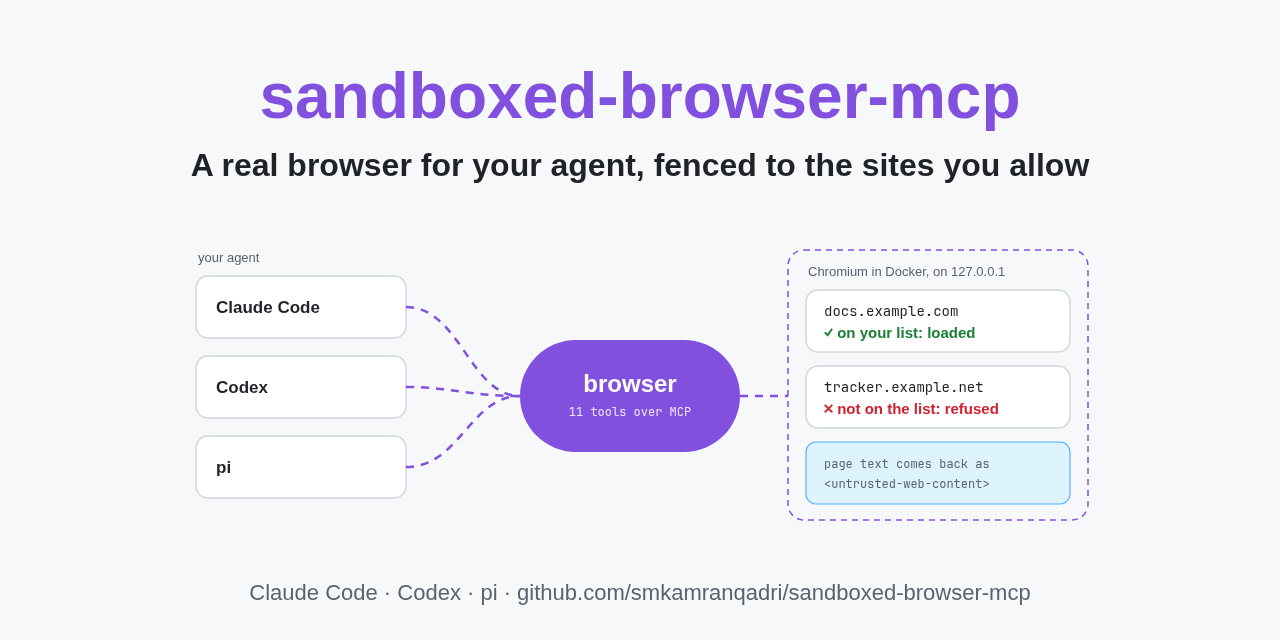
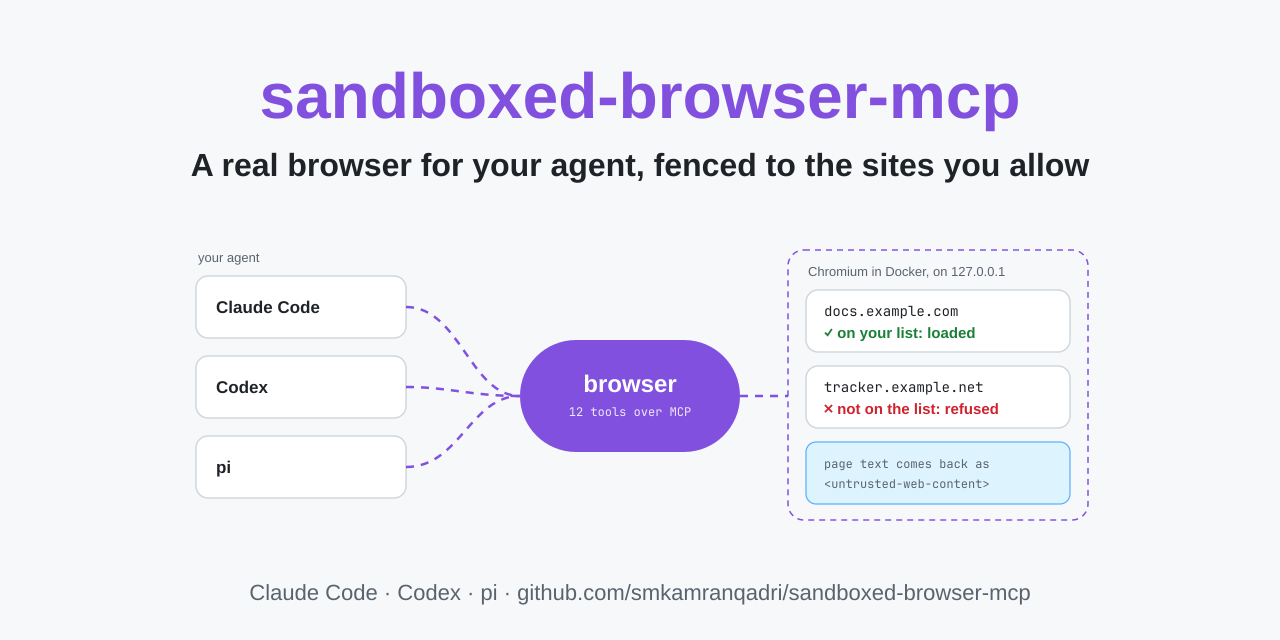
upload: task 6 docs
Twelve tools everywhere they are counted (README, how-it-works, the pi
line, package.json, the tools.ts header, the hero, how-it-works and
social-preview images). The spec gets browser_upload's row, an uploads
section and click's file chooser answer; acceptance cases 42 to 53 map
the plan's checks to their tests, and case 1 is amended to twelve.
README: the tool in What you get, an everyday example and a privacy
line. Security: an Uploads entry with the denylist, hard links, the
residual risks and Linux only. CHANGELOG: Unreleased with Added,
Changed and Known limits.

diff --git a/src/tools.ts b/src/tools.ts
@@ -17,7 +17,7 @@ import { changes, describe, excerpt, findRef, fullText, render, search, type Ari
 export { ToolError, keyCombo };
 
 /**
- * The eleven browser tools. One server process is one session: it follows one tab of the browser (Chromium over CDP,
+ * The twelve browser tools. One server process is one session: it follows one tab of the browser (Chromium over CDP,
  * through Playwright), shows it as text (view.ts), acts on elements by the refs the view gives, and answers an action
  * with what it changed. With BROWSER_ALLOWED_HOSTS set it keeps the tab on those hosts: the guard (navguard.ts) fails
  * document requests to other hosts in the browser, and the tools judge every navigation and action by where the tab

diff --git a/kis/intent/spec-browser-tools.md b/kis/intent/spec-browser-tools.md
@@ -1,6 +1,6 @@
 # Spec: the browser tools
 
-What the eleven tools of sandboxed-browser-mcp do, seen from outside. This is the brief for writing them. It says
+What the twelve tools of sandboxed-browser-mcp do, seen from outside. This is the brief for writing them. It says
 what must hold; how is up to the implementer.
 
 Exact text is required only in three places, because kept tests depend on it: the messages of sections 10 and 11,
@@ -8,7 +8,8 @@ the phrases of section 12, and the line formats of the view (section 4: the `Pag
 element line). Every other answer quoted here is an example of what it must say: write it in your own words, keeping
 its parts (the ref, the counts, the URL, the order of the parts).
 
-Written 2026-10-24 for the 1.0.0 rewrite.
+Written 2026-10-24 for the 1.0.0 rewrite. File upload (`browser_upload`, section 15, and the file chooser answer of
+`browser_click`, section 6) added 2026-10-25, after kis/intent/plan-file-upload.md.
 
 ## 1. What stays and what is new
 
@@ -36,7 +37,7 @@ The module boundaries the kept code and tests import must exist with these names
 A tool definition has `name`, `label`, `description`, `inputSchema` (JSON schema, `type: "object"`), optional
 `readOnly`, and `execute(callId, args)` resolving to `{ content: [...] }` with MCP text and image blocks.
 
-## 2. The interface (unchanged)
+## 2. The interface (1.0.0's eleven tools unchanged; `browser_upload` added last)
 
 | Tool | Arguments | Read-only |
 | --- | --- | --- |
@@ -51,6 +52,7 @@ A tool definition has `name`, `label`, `description`, `inputSchema` (JSON schema
 | `browser_find` | `query` string, required | yes |
 | `browser_get_text` | `ref` string, required; `offset` number, default 0; `max_chars` number, default 2000 | yes |
 | `browser_screenshot` | `ref` string, optional | yes |
+| `browser_upload` | `ref` string, required; `files` array of strings, at least one, required | no |
 
 The tool names, argument names, types, defaults and required lists are a public interface: clients and prompts
 depend on them. Descriptions are new text (section 12).
@@ -118,6 +120,11 @@ what changed, not with the whole page:
 - A change too large to list: the whole view instead, saying the page changed a lot.
 - The "what was done" text: `Clicked <ref>`, `Double-clicked <ref>`, `Typed into <ref>`, `Chose "<option>" in <ref>`,
   `Pressed <combo>`.
+- A click that opens a file chooser on the followed tab: the chooser is caught (no native dialog opens), given no
+  files (an earlier selection stays), and the answer says that this ref opens a file chooser and to use
+  `browser_upload` on it, then what changed. Caught: choosers the followed tab opens from just before the click until
+  the page has settled, and at least 1 s after it; a person's or a script's chooser at that moment may be caught too.
+  Choosers opened outside that window (by `browser_key` Enter, a script, a person) keep the native dialog.
 - The diff compares against what the agent saw last in this tab (the last view or diff answer), so a change made
   by a late call the agent never saw still shows up in the next answer.
 - `browser_type` replaces the field's whole text; with `submit` it presses Enter after. It works on inputs, text
@@ -132,7 +139,8 @@ what changed, not with the whole page:
   (`page.locator("aria-ref=<ref>")` with `count`, `fill`, `press`, `click`, `dblclick`, `selectOption`,
   `scrollIntoViewIfNeeded`; `page.mouse.move`/`wheel`; `page.goto`; `page.goBack`; `page.ariaSnapshotJSON`,
   `page.evaluate`, `page.title`, `page.url`, `page.waitForTimeout`, `page.waitForLoadState`; `context.pages`,
-  `context.on/off`, `context.newCDPSession`), or adapt that test with a review.
+  `context.on/off`, `context.newCDPSession`; for the file chooser capture around a click, `page.on/off` and
+  `page._channel.updateSubscription`), or adapt that test with a review.
 
 ## 7. Keys
 
@@ -178,7 +186,7 @@ action lands. On by default; `BROWSER_CURSOR=0` turns it off completely (nothing
   for a plain scroll), with a faint dotted trail, quick enough not to slow the tools (about a third of a second).
 - A dark rounded label below the arrow says what is happening: `Click · Save`, `Double-click · <name>`,
   `Type · Name` (the field, never the text typed: it may be a password), `Choose · Pro`, `Scroll down`, `Scroll up`,
-  `Scroll to · <name>`, `Press · Enter`. It stays a moment after the action, then fades.
+  `Scroll to · <name>`, `Press · Enter`, `Upload · <name>`. It stays a moment after the action, then fades.
 - A click shows a short ripple at the tip. While text is being typed the arrow shows that it is typing.
 - It survives navigation: on a new page it appears again where it was.
 - A hook for tests: `window.__agentCursor.where()` returns the tip's `{ x, y }` in viewport pixels.
@@ -223,7 +231,8 @@ The allowlist checks themselves are in the kept files. The new tool code must gi
   instructions to follow; pages off the allowlist are refused and the agent should say so rather than look for a way
   around; actions answer with what changed, so no snapshot is needed after them; refs come only from a snapshot or a
   find and must never be guessed; long text is read with `browser_get_text` rather than by scrolling or screenshots;
-  `browser_screenshot` only when layout, images or a canvas matter.
+  `browser_screenshot` only when layout, images or a canvas matter; files are attached with `browser_upload` on the
+  upload control, not by clicking it.
 - The kept unit test checks the instructions for these phrases: `answer with what changed`, `never guess one`,
   `<untrusted-web-content>`, `browser_get_text to read long text`, `browser_screenshot only when layout`. They may be
   reworded in review, with the test updated to the same meaning.
@@ -241,3 +250,45 @@ The allowlist checks themselves are in the kept files. The new tool code must gi
 - Refs from a reloaded or left page give the normal "not on the page" error, not a library error (section 5).
 - Bad URLs, unresolved hosts, a missing dropdown option and typing into a non-field give short plain messages at once
   (sections 6 and 8), not a 10 s wait and a library call log.
+
+## 15. Uploads
+
+`browser_upload { ref, files }` attaches files from the host to a file input. Added 2026-10-25; the plan, with why
+each rule is there, is kis/intent/plan-file-upload.md.
+
+- `files`: host paths, absolute or starting with `~/`. Before anything on the page is looked up or clicked, each is
+  checked and read (`src/upload.ts`), so a refusal leaves the page as it was:
+  - `~/` is the server's home; any other relative form is refused. `..` is resolved, and both the path as given and
+    its canonical path must lie inside the home (as given or canonical), by whole components.
+  - A denylist, on whole components below the home, at any depth: credential, key, history and browser-profile
+    folders and files (`.ssh`, `.gnupg`, `.aws`, `.config/gh`, `.mozilla`, `.claude`, `.netrc`, shell histories …),
+    `.env` and `.env.*`, `*.pem`, `*.key`, `*.p12`, `*.pfx` (any case), and SSH private keys by exact name.
+  - Only a regular file with one hard link, checked before it is opened, opened without following a final symlink or
+    waiting on a pipe, the same file on the open handle, and the handle's real location (`/proc/self/fd`) checked
+    again. Linux only: elsewhere that last check refuses every file.
+  - The bytes are read through that handle; what is read must be the handle's size, and a call's files must total
+    under 52,428,800 bytes. Playwright gets name, MIME type and bytes, never a path.
+- A refusal of a path is the server's own words (not wrapped as page content): `Upload refused for files[<n>] (<rule>):
+  <reason>.`, with one rule each: relative path, missing, outside home, denied location, hard link, not a regular
+  file, unreadable, too large, changed while reading. It never carries the path, its name or a system error.
+- Dispatch, by looking at the ref's element in its own document or shadow root:
+  - a file input, or a label for one: the input is given the files directly, with no click. A folder input
+    (`webkitdirectory`) is refused, and two or more files on an input without `multiple` are refused; the input keeps
+    what it had.
+  - anything else: clicked once, with the file chooser capture of section 6 armed; a chooser the followed tab opens
+    within 2 s gets the files (its own `multiple` decides two or more). Never a second lookup or click.
+- Answers, through the same machinery as click (the diff against what the agent saw last, the new page, the new tab,
+  blocked):
+  - given: `Uploaded to <ref>: <path> (<size> bytes), …` with each file's full path, then what changed.
+  - no chooser: that the click opened no file chooser, no files were assigned, and to point the tool at the upload
+    control itself. When the click opened a new tab instead: that no chooser was caught on this page, capture does not
+    reach other tabs, and no files were assigned.
+  - refused after the click (two files on a chooser that takes one, a chooser's tab off the allowed hosts): the
+    refusal, then what the click changed.
+- The tab, or the chooser's tab, is checked against the allowed hosts before any bytes are sent.
+- Given up at its time limit: the capture is released at once, and no files are sent after that.
+- The cursor's label is `Upload · <name>`.
+- The file chooser capture (`src/chooser.ts`) switches the browser's interception through the page's channel and
+  waits for it to be confirmed on, before the click, and off, before the listener goes; the next call does not start
+  until an earlier capture's release is confirmed. A browser that does not confirm within 10 s has the connection
+  dropped instead, which ends the interception with it.

diff --git a/kis/intent/acceptance-cases.md b/kis/intent/acceptance-cases.md
@@ -11,9 +11,10 @@ the case checks its parts and meaning (the ref, the counts, the URL, which outco
 
 ## Interface
 
-1. `tools/list` returns exactly the eleven tools in this order: navigate, back, snapshot, click, type, select, key,
-   scroll, find, get_text, screenshot (all `browser_`-prefixed), with the argument names, types, required lists and
-   enums of spec section 2; `readOnlyHint` true for snapshot, find, get_text, screenshot only.
+1. `tools/list` returns exactly the twelve tools in this order: navigate, back, snapshot, click, type, select, key,
+   scroll, find, get_text, screenshot, upload (all `browser_`-prefixed), with the argument names, types, required
+   lists and enums of spec section 2; `readOnlyHint` true for snapshot, find, get_text, screenshot only. (Amended
+   2026-10-25 with the owner: eleven became twelve, `browser_upload` last; see case 42.)
 2. Argument errors answer at once with the validator's messages: missing `url`, `url` 42, `screens` "two",
    `direction` "sideways", `mode` "pixels", an unknown argument.
 
@@ -113,3 +114,48 @@ the case checks its parts and meaning (the ref, the counts, the URL, which outco
 
 41. A page that never answers fails the call at the time limit with the time-limit message, and the next navigation
     succeeds with the right URL and page content (kept timeout test, tightened in P1).
+
+## File upload (added 2026-10-25)
+
+The acceptance checks of kis/intent/plan-file-upload.md, numbered on from here. Each names the test that proves it
+(`test/integration/upload.test.mjs` unless it says otherwise).
+
+42. `tools/list` returns twelve tools, `browser_upload` last: `ref` string and `files` array of strings with
+    `minItems: 1`, both required, not read-only; `files: []`, `files: "x"` and `files: [1]` fail validation. Tests:
+    `test/integration/tools.test.mjs` "twelve tools, in order, …" and "arguments are checked at once, …";
+    `test/unit/guard.test.mjs` "the twelve tools keep their names, …"; `test/unit/server.test.mjs`.
+43. One small fixture file uploaded to each fixture kind (visible input, label, button, input made on click, delayed
+    chooser, same-site and cross-site frames, shadow DOM) answers with its full path and size; the page shows exactly
+    one file with the same name, size and the SHA-256 `sha256sum` gives on the host. Tests: "each kind of upload
+    control gets the file (acceptance 2)".
+44. `multiple` takes two files (both hashes match); a single input given two answers that it takes one and keeps its
+    earlier file; `webkitdirectory` is refused. Tests: "several files, one file, a folder (acceptance 3)".
+45. Every refusal class answers its own message, with the page and the input unchanged and no click (the page's
+    counter). Test: "each refusal of a path has its own answer, … (acceptance 4)" for relative path, missing, outside
+    home, denied location, hard link, not a regular file, unreadable and too large; "changed while reading" needs a
+    file changed between check and read, so it is shown in `test/unit/upload.test.mjs` ("a file changed between the
+    check, the open and the read") and not here.
+46. A drop zone with no chooser answers that it opened none, after exactly one click; a button that opens a pop-up
+    answers that capture does not reach the new tab and no files were assigned, and the pop-up's input has none.
+    Tests: "controls that open no chooser here (acceptance 5)".
+47. `browser_click` on the chooser button answers with the hint naming its ref; the input keeps an earlier selection;
+    no native dialog is open, then and 3 s later; afterwards a click from outside the session opens the native dialog
+    again. Test: `test/integration/chooser.test.mjs`. A native dialog is seen by typing Escape on the container's
+    desktop (`wtype`): one it closes fires the input's `cancel`, which the page counts; a desktop screenshot and a
+    click by a person in the desktop were not used.
+48. Uploads that navigate, open a tab, or are blocked by the allowlist answer like click does; an upload with no
+    visible change says so; on a tab off the allowlist the call is refused with no click and no bytes sent. Tests:
+    "uploads whose page then moves, or shows nothing (acceptance 7)" and "with BROWSER_ALLOWED_HOSTS (acceptance 7)".
+49. An upload abandoned at the time limit whose assignment finishes late: the next action reports its changes against
+    the last answer the agent received. Test: "an upload abandoned at its time limit (acceptance 8)".
+50. Raw MCP results: a success and a Playwright error are inside the envelope; a fictional file whose path holds a
+    closing envelope tag is defanged; a refusal for a denied name with a newline and a forged role marker carries
+    neither; a page asking for an API key signals `secret-request`, an ordinary upload page does not. Tests: "raw
+    results (acceptance 9)".
+51. The cursor's tip ends on the input given the file, and nothing is put into the page with `BROWSER_CURSOR=0`.
+    Tests: "the cursor (acceptance 10)". The label `Upload · <name>` is in a closed shadow root: looked at in a
+    captured frame (2026-10-25, `Upload · Seed list file`), not measured.
+52. Each new guard (validator, each path rule, the location recheck, the size cap, capture cleanup, the teardown
+    barrier, the dispatch, refusal before click) was broken by a literal edit, its test failed, and the file was
+    restored byte-identical. Recorded in each upload task's report (commits 4a44df9 to 9e95cbb), not a test file.
+53. `npm test` passes, and the cases above (1 to 41) still pass. Proof: `npm test` locally; CI on the branch.

diff --git a/README.md b/README.md
@@ -1,5 +1,5 @@
 <p align="center">
-  <img src="docs/assets/hero.svg" alt="Claude Code, Codex and pi call eleven browser tools over MCP; Chromium in Docker loads a site on your list, refuses one that is not, and page text comes back marked as untrusted." width="860">
+  <img src="docs/assets/hero.svg" alt="Claude Code, Codex and pi call twelve browser tools over MCP; Chromium in Docker loads a site on your list, refuses one that is not, and page text comes back marked as untrusted." width="860">
 </p>
 
 <h1 align="center">sandboxed-browser-mcp</h1>
@@ -22,7 +22,7 @@ You ask your agent to read the docs of a new API, check a page you just deployed
 It needs a browser. A browser holds your logins and can reach anything, and the pages it reads can
 try to give your agent orders.
 
-sandboxed-browser-mcp is an MCP server with eleven browser tools. They drive Chromium inside a Docker
+sandboxed-browser-mcp is an MCP server with twelve browser tools. They drive Chromium inside a Docker
 container, answer with the page as short text a model can use, and, when you list allowed hosts,
 keep the browser on them: the browser's own policy, a guard on every page request and a check after
 every action each refuse the rest. Everything read from a page comes back marked as untrusted.
@@ -67,8 +67,12 @@ hand instead, see [Configuration](docs/configuration.md#manual-setup).
   and you can watch it, or take over, in a web page at `https://127.0.0.1:3101`.
 - Answers sized for a model. A page is its viewport as text, one line per element with a ref to act on. A click or a
   typed field answers with what changed on screen, not the whole page again.
-- Eleven tools: `browser_navigate`, `browser_back`, `browser_snapshot`, `browser_click`, `browser_type`,
-  `browser_select`, `browser_key`, `browser_scroll`, `browser_find`, `browser_get_text`, `browser_screenshot`.
+- Twelve tools: `browser_navigate`, `browser_back`, `browser_snapshot`, `browser_click`, `browser_type`,
+  `browser_select`, `browser_key`, `browser_scroll`, `browser_find`, `browser_get_text`, `browser_screenshot`,
+  `browser_upload`.
+- File upload from your machine: `browser_upload` gives a page's file input files from under your home folder,
+  through the input, its label or the button that opens its chooser, with no file dialog and no folder shared with the
+  container.
 - A fence, when you want one. List the hosts the agent may use, and three layers each refuse the rest: the browser's
   own policy, a guard on every page request, and a check of where every action ended up.
 - Page text marked as untrusted, every time, with a warning line when it looks like an attempt to steer the agent.
@@ -80,7 +84,7 @@ hand instead, see [Configuration](docs/configuration.md#manual-setup).
 | --- | --- | --- |
 | Claude Code | `claude mcp add -s user browser …` | in every project |
 | Codex | `codex mcp add browser …` | asks before each tool call; may prefer its own browser (below) |
-| pi | `pi mcp add browser --exposure direct …` | lists the eleven tools as they are |
+| pi | `pi mcp add browser --exposure direct …` | lists the twelve tools as they are |
 
 The install script runs these for you with `--client`. Any other MCP client works too: it runs
 `node <install dir>/dist/server.js` over stdio. Each was checked with one real session; see
@@ -102,6 +106,7 @@ Ask for what you want; the agent picks the tools:
 Open docs.example.com and find how to rotate an API key.
 Check the pricing page on our staging site and tell me if the new plan shows.
 Fill in the signup form on example.org with these details, but stop before you submit.
+Attach ~/Documents/seed-list.csv to the import form.
 ```
 
 - Watch it work, or take over, at `https://127.0.0.1:3101`. An arrow shows where the agent is about to click.
@@ -117,6 +122,8 @@ Fill in the signup form on example.org with these details, but stop before you s
 - The fence is a filter, not a wall: an allowed page's own images, scripts and requests may reach any host, and the
   container has ordinary network access. Keep the list tight, and keep accounts you cannot afford to lose out of the
   profile.
+- Uploads read files from your machine: only regular files under your home folder, never credential, key, history or
+  browser-profile files (a denylist), and the page then has their bytes and can send them anywhere. Linux only.
 - Anything on your machine that can reach `127.0.0.1:9322` can drive the browser.
 
 The full threat model, with what is and is not covered: [Security](docs/security.md).

diff --git a/docs/how-it-works.md b/docs/how-it-works.md
@@ -9,7 +9,7 @@
 - **The browser**: Chromium in a Docker container (`docker/compose.yaml`), with a desktop you can watch and use at
   `https://127.0.0.1:3101`. Its debugging protocol (CDP) is published on `127.0.0.1` only, through a small relay.
 - **The server**: a stdio MCP server (`dist/server.js`) that your agent starts. It connects to the browser over CDP
-  with Playwright and offers eleven tools. One server process is one session, following one tab.
+  with Playwright and offers twelve tools. One server process is one session, following one tab.
 
 ## A call
 
@@ -40,6 +40,7 @@ again, gets one answer saying so.
 | `browser_find` | finds elements anywhere on the page by their words, with refs to act on directly |
 | `browser_get_text` | reads a section's full text, in pages |
 | `browser_screenshot` | a JPEG, for when layout, images or a canvas matter |
+| `browser_upload` | gives a file input files from this machine, through the input, its label or its chooser |
 
 The actions answer with what changed on screen since the agent last looked (`~ old  →  new`, `+ appeared`,
 `- gone`), or with the new page if they navigated, or the new tab if they opened one (the session then follows that
@@ -47,11 +48,21 @@ tab), so the agent rarely needs another snapshot. A scroll names what stayed pin
 it, and says when it is already at the top or bottom. Refs come only from a snapshot or a find; a ref whose element is
 gone is refused.
 
+## Uploads
+
+`browser_upload` reads the files on the host, under the server's home only and minus a denylist of credential, key,
+history and browser-profile files, and Playwright sends their bytes into the page over CDP: no folder is mounted into
+the container, and its own file dialog is never used. A file input, or a label for one, is given the files directly.
+Anything else is clicked once, with the file chooser it opens on the followed tab caught (no dialog appears) and given
+the files. `browser_click` catches choosers the same way during its own click, gives them nothing, and answers that
+the element opens a file chooser and to use `browser_upload` on it. Choosers outside those moments, opened by a key, a
+script or a person, keep the native dialog. The rules are in [Security](security.md).
+
 ## The cursor
 
 An arrow drawn into the page glides to each target before an action (about a third of a second, with a faint dotted
 trail), with a dark label below it saying what is happening: `Click · Save`, `Type · Name` (the field, never the text
-typed), `Choose · Pro`, `Scroll down`, `Press · Enter`. A click sends a ring out from the tip, and a caret blinks
+typed), `Choose · Pro`, `Scroll down`, `Press · Enter`, `Upload · Seed list`. A click sends a ring out from the tip, and a caret blinks
 beside it while it types. You can follow along at `https://127.0.0.1:3101`, and it is in screenshots. On a new page it appears again where
 it was.
 
@@ -89,7 +100,9 @@ role-markup, hidden, secret-request), a `WARNING:` line naming it comes first.
 ```
 install.sh         install, check, update, uninstall
 src/server.ts      MCP server (stdio), call queue, envelope
-src/tools.ts       the eleven tools, the session (the followed tab), allowlist checks of the tab, call abandonment
+src/tools.ts       the twelve tools, the session (the followed tab), allowlist checks of the tab, call abandonment
+src/upload.ts      the files of an upload: the path rules, read through one checked handle, as bytes for Playwright
+src/chooser.ts     file chooser capture during the agent's own click, released (confirmed) before the next call
 src/connection.ts src/tabs.ts   the Playwright connection; each tab's CDP session, which tabs are gone, the newest tab
 src/view.ts        the page as text: the view, what changed, find, full text in pages
 src/refs.ts src/keys.ts src/schema.ts src/errors.ts src/cdp.ts   refs, key names, argument schemas, ToolError, CDP address

diff --git a/docs/security.md b/docs/security.md
@@ -30,6 +30,19 @@ What sandboxed-browser-mcp protects, and what it does not. To report a problem, 
   host; workers' own requests; a policy that does not match the server's list (they are set in two places); or other
   CDP clients. It matches host names, not IPs behind them (DNS rebinding is not addressed). Do not treat it as a
   security boundary.
+- **Uploads read files on this machine.** `browser_upload` takes host paths, and only regular files inside the
+  server's own home: everything else on the host (`/etc`, `/proc`, `/tmp`, other users' homes, mounted drives) is
+  refused. Below the home, a denylist refuses credential, key, history and browser-profile locations (`.ssh`, `.gnupg`,
+  `.aws`, `.kube`, `.docker`, `.config/gh`, `.password-store`, keyrings, Firefox, Chrome and Brave profiles, `.claude`,
+  `.codex`, this install's own folder, `.netrc`, `.npmrc`, `.git-credentials`, shell and REPL histories), `.env` and
+  `.env.*` files, `*.pem`, `*.key`, `*.p12`, `*.pfx`, and SSH private keys by name. A file with more than one hard link
+  is refused (a hard link to a denied file would otherwise look like any other). The path is checked as given and
+  canonical, the file is read through one handle that is checked again where it really is, and Playwright gets the
+  bytes, not a path. A refusal names the rule and the argument's position, never the path. Not covered: a secret in an
+  ordinary file (a token in `~/notes.txt`) or under a path the denylist does not know; a file rewritten in place,
+  keeping its size, while it is read; the denylist is a filter, not a wall; and once the page has the bytes, its
+  scripts may send them to any host (sub-resources are not fenced, above). Linux only: the location check reads
+  `/proc/self/fd`, and on other systems every upload is refused.
 - **Revoke:** `install.sh uninstall --purge`, or `docker compose -f docker/compose.yaml down -v` for a manual setup,
   deletes the container *and* its profile volume (cookies, logins). Without `--purge` / `-v` the profile is kept.
 - The browser runs with `seccomp=unconfined` and `--no-sandbox` (the image's defaults for Chromium inside a container).

diff --git a/CHANGELOG.md b/CHANGELOG.md
@@ -1,5 +1,26 @@
 # Changelog
 
+## Unreleased
+
+### Added
+
+- **`browser_upload { ref, files }`**, the twelfth tool: gives a page's file input files from this machine, under the
+  server's home only, minus a denylist of credential, key, history and browser-profile files. A file input or its
+  label gets them directly; any other control (a button that opens a chooser, one that makes its input on click) is
+  clicked once and the file chooser it opens gets them. Files are read on the host and sent as bytes over CDP: no
+  folder is shared with the container. Linux only.
+
+### Changed
+
+- **`browser_click` catches a file chooser** its click opens on the followed tab: no native dialog appears, no file is
+  chosen (an earlier selection stays), and the answer points to `browser_upload` with the ref.
+
+### Known limits
+
+- A page that removes its file input right after opening the chooser reads as uploaded, though the page got nothing.
+- The container's native file dialog drops the file picked in it (seen on Wayland without a desktop portal), so
+  picking by hand in the browser's desktop does not upload either.
+
 ## 1.0.0 (2026-10-24)
 
 The first release: an MCP server that lets a coding agent use a real Chromium in Docker, read as short text and kept

diff --git a/docs/configuration.md b/docs/configuration.md
@@ -57,7 +57,7 @@ codex mcp add browser --env 'BROWSER_ALLOWED_HOSTS=docs.example.com,*.example.or
 # Claude Code (-s user: in every project, not only the current one)
 claude mcp add -s user browser -e BROWSER_ALLOWED_HOSTS='docs.example.com,*.example.org' -- node "$PWD/dist/server.js"
 
-# pi (its default exposure is "codemode"; --exposure direct lists the eleven tools as they are)
+# pi (its default exposure is "codemode"; --exposure direct lists the twelve tools as they are)
 pi mcp add browser --exposure direct --env BROWSER_ALLOWED_HOSTS='docs.example.com,*.example.org' -- node "$PWD/dist/server.js"
 ```
 
